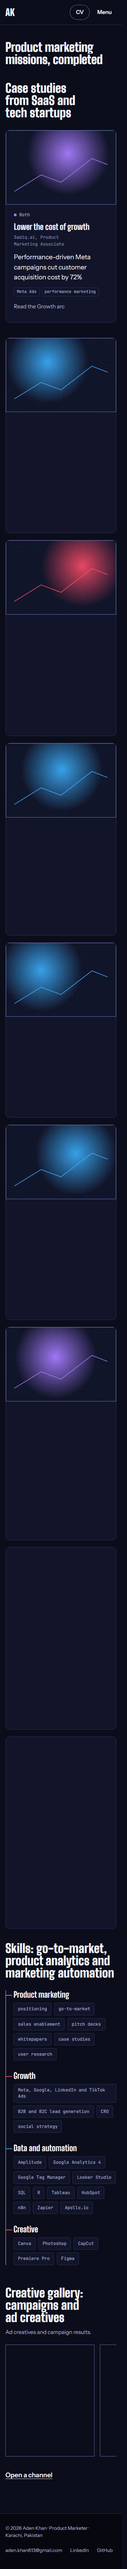
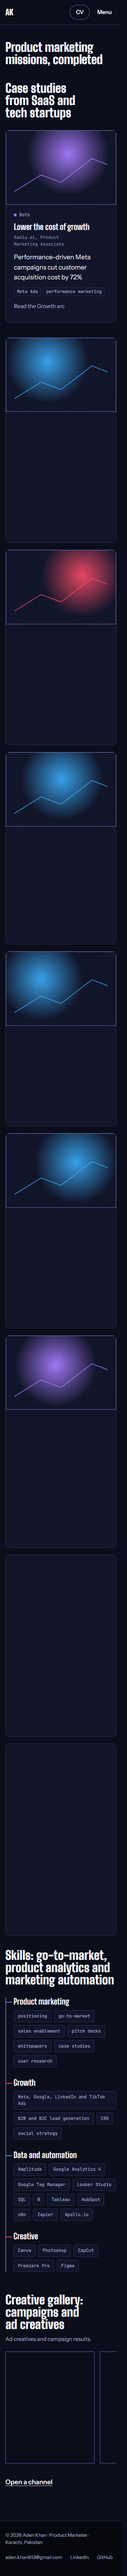
p16: design audit
Merged impeccable, improve-ui, web-design-guidelines, break-ui and
mobile-native findings into docs/audits/ui.md and fixed them by severity.
Home passes the recruiter test on a phone: name, role, CTA and the -72%
CAC proof sit in the first 640 px screen. Adds an axe WCAG 2.2 AA spec.

diff --git a/src/styles/global.css b/src/styles/global.css
@@ -44,6 +44,8 @@
   --font-mono: "JetBrains Mono Variable", ui-monospace, monospace;
   --text-display-xl: 6rem;
   --text-display-xl--line-height: 0.92;
+  --text-display-page: 4.5rem;
+  --text-display-page--line-height: 1;
   --text-display-lg: 3.25rem;
   --text-display-lg--line-height: 1;
   --text-title: 1.875rem;
@@ -154,6 +156,8 @@
     scrollbar-gutter: stable;
     background-color: var(--color-bg-base);
     -webkit-text-size-adjust: 100%;
+    /* Native-feeling taps: no grey flash (every control has its own :active state). */
+    -webkit-tap-highlight-color: transparent;
     scrollbar-color: var(--color-line-strong) var(--color-bg-void);
   }
 
@@ -182,6 +186,20 @@
 
   a {
     text-underline-offset: 0.2em;
+  }
+
+  /* No double-tap-zoom delay on controls; button labels are not selectable on long-press. */
+  a,
+  button,
+  summary {
+    touch-action: manipulation;
+  }
+
+  button,
+  summary,
+  .btn {
+    user-select: none;
+    -webkit-user-select: none;
   }
 
   /* Links inside running text are underlined, so they never rely on colour alone (WCAG 1.4.1). */
@@ -291,16 +309,17 @@
 }
 
 @layer components {
+  /* Side padding clears the notch in landscape (viewport-fit=cover). */
   .container-site {
     width: 100%;
     max-width: 1200px;
     margin-inline: auto;
-    padding-inline: 1rem;
+    padding-inline: max(1rem, env(safe-area-inset-left, 0px)) max(1rem, env(safe-area-inset-right, 0px));
   }
 
   @media (width >= 48rem) {
     .container-site {
-      padding-inline: 1.5rem;
+      padding-inline: max(1.5rem, env(safe-area-inset-left, 0px)) max(1.5rem, env(safe-area-inset-right, 0px));
     }
   }
 
@@ -310,8 +329,10 @@
     }
   }
 
+  /* DESIGN.md: 65ch body measure. `ch` is a zero's width, wider than an average Instrument Sans
+     character, so 65ch rendered ~90 characters; 34em keeps lines near 70. */
   .measure {
-    max-width: 65ch;
+    max-width: 34em;
   }
 
   /* Visible second line inside an H1 (docs/SEO.md §3). */

diff --git a/src/data/timeline.ts b/src/data/timeline.ts
@@ -2,7 +2,7 @@ import type { AboutCopy, ContactCopy, WorkCopy } from "./types";
 
 export const about: AboutCopy = {
   h1: "The origin arc: from campaigns to products",
-  bio: "I'm a BBA Marketing student at IBA Karachi who fell for the product side of marketing. I started with social campaigns and memes that converted, then moved into analytics, automation and go-to-market work for tech startups. Today I care about one question: why do people adopt a product, and how do we help more of them get there?",
+  bio: "I’m a BBA Marketing student at IBA Karachi who fell for the product side of marketing. I started with social campaigns and memes that converted, then moved into analytics, automation and go-to-market work for tech startups. Today I care about one question: why do people adopt a product, and how do we help more of them get there?",
   arcsHeading: "From storytelling to product analytics",
   arcs: [
     {
@@ -89,6 +89,7 @@ export const contact: ContactCopy = {
       message: "Write a message.",
     },
     summary: "Check {count}: {fields}.",
+    sending: "Sending…",
   },
   copy: { button: "Copy email", done: "Email copied", failed: "Could not copy. The address is" },
   thanks: { status: "// message sent", line: "Thanks for getting in touch. I will reply by email." },

diff --git a/tests/e2e/a11y.spec.ts b/tests/e2e/a11y.spec.ts
@@ -1,0 +1,24 @@
+import AxeBuilder from "@axe-core/playwright";
+import { expect, test } from "@playwright/test";
+
+test.beforeEach(async ({ page }) => {
+  await page.addInitScript(() => {
+    try {
+      sessionStorage.setItem("ak.intro", "1");
+    } catch {}
+  });
+});
+
+for (const route of ["/", "/about/", "/work/", "/contact/", "/thanks/"]) {
+  test(`${route} has no axe violations (WCAG 2.2 A/AA)`, async ({ page }) => {
+    await page.goto(route);
+    await page.waitForTimeout(1500); // let reveals settle so axe sees the resting state
+    const results = await new AxeBuilder({ page })
+      .withTags(["wcag2a", "wcag2aa", "wcag21a", "wcag21aa", "wcag22aa"])
+      .analyze();
+    const summary = results.violations.map(
+      (v) => `${v.id} (${v.impact}): ${v.nodes.length} × ${v.nodes[0]?.target}`,
+    );
+    expect(summary).toEqual([]);
+  });
+}

diff --git a/tests/e2e/home-motion.spec.ts b/tests/e2e/home-motion.spec.ts
@@ -31,7 +31,8 @@ test("hero entrance ends fully visible and the stat bars fill", async ({ page })
 });
 
 test("stats count up once when scrolled into view and end on the real values", async ({ page }) => {
-  await page.setViewportSize({ width: 1440, height: 700 });
+  // Since p16 the stats sit in the hero, so a short viewport keeps them below the fold.
+  await page.setViewportSize({ width: 1440, height: 480 });
   await page.goto("/");
   await expect(page.locator("html")).not.toHaveClass(/motion-pending/, { timeout: 2000 });
   // Screen readers always get the real numbers.

diff --git a/src/lib/motion/moments/home.ts b/src/lib/motion/moments/home.ts
@@ -52,7 +52,7 @@ function countUps(ctx: MomentContext): (() => void) | void {
   const restore = () => counters.forEach((el) => (el.textContent = format(el, Number(el.dataset.count))));
   for (const el of counters) el.textContent = format(el, 0);
   ScrollTrigger.create({
-    trigger: counters[0].closest("section") ?? counters[0],
+    trigger: counters[0].closest(".stats") ?? counters[0],
     start: "top 90%",
     once: true,
     onEnter: () => {

diff --git a/src/data/seo.ts b/src/data/seo.ts
@@ -52,7 +52,7 @@ export const seo: Record<PageId, PageSeo> = {
     id: "404",
     path: "/404/",
     title: "Page not found | Aden Khan",
-    description: "This page does not exist. Go to Aden Khan's product marketing work or contact page.",
+    description: "This page does not exist. Go to Aden Khan’s product marketing work or contact page.",
     h1: "Page not found",
     ogImageAlt: "Aden Khan, Product Marketer",
     noindex: true,

diff --git a/src/data/types.ts b/src/data/types.ts
@@ -120,6 +120,7 @@ export interface ContactCopy {
     errors: { name: string; email: string; emailFormat: string; message: string };
     /** Announced on a failed submit; {count} and {fields} are filled in. */
     summary: string;
+    sending: string;
   };
   copy: { button: string; done: string; failed: string };
   thanks: { status: string; line: string };

diff --git a/src/data/missions.ts b/src/data/missions.ts
@@ -88,7 +88,7 @@ export const missions: Mission[] = [
   {
     id: "grow-a-programs-reach",
     order: 8,
-    title: "Grow a program's reach",
+    title: "Grow a program’s reach",
     org: "Invest2Innovate",
     role: "Marketing Associate",
     result: "+40% awareness for i2iScale across 3 concurrent initiatives",

diff --git a/docs/audits/ui.md b/docs/audits/ui.md
@@ -1,0 +1,69 @@
+# UI Audit (p16)
+
+Surfaces: `/`, `/about/`, `/work/`, `/contact/` (+ `/thanks/`), at 375×667 (phone), 375×812, 1440×900, and 200% zoom. Reviewed read-only first, then fixed highest severity first. Status below reflects the fixes and the confirming impeccable rerun.
+
+**Recruiter test (owner's bar):** a hiring manager on a phone should understand who Aden is, what he does and one proof point within 10 seconds on Home.
+
+## Sources and method
+
+| Skill | What it ran |
+|---|---|
+| impeccable | `impeccable detect` on `src/` (regex rules) and on the four running pages (element rules incl. AI-slop palette, halos, line length, occlusion); critique against DESIGN.md and `docs/01-brief.md` |
+| improve-ui | Audit against DESIGN.md as the governing system (contract → runtime → correction proof for each finding) |
+| web-design-guidelines | Latest Web Interface Guidelines (vercel-labs `command.md`), checked against the components; axe-core WCAG 2.2 A/AA scan of all routes |
+| break-ui | Worst-case fixture (`npm run dev:worst`, p14) for long names, missing images, empty lists; plus 200% zoom on all pages |
+| mobile-native | Platform layer: tap highlight, touch-action, user-select, input zoom, viewport units, safe areas, overscroll, hover gating |
+
+## Design language (improve-ui)
+- Audited surface: the four public pages and shared layout (nav, footer, CV dialog).
+- Design sources: `DESIGN.md` (current, governs all pages), `docs/MOTION.md`, `docs/01-brief.md`.
+- Documented decisions: dark-only palette with lane meaning (red creative, blue data, purple both); type ramp display-xl/lg, title, body-lg, body, caption, mono-label; 65ch body measure; the only multi-colour gradient allowed is the CV button; glow only on orb, CV burst, focus ring and card pointer light.
+- Governing owners and consumers: `src/styles/global.css` `@theme` tokens → every component.
+- Explicit exceptions: None documented.
+
+## Findings (merged, highest severity first)
+
+| # | Severity | Page | Issue | Fix | Raised by | Status |
+|---|---|---|---|---|---|---|
+| 1 | Critical | Home (phone) | Recruiter test fails: at 375×667 the proof point (stats strip, −72% CAC) starts at 1,257 px, almost two screens down, below the avatar card. Name, role and CTA are visible; proof is not. | Move the stats strip into the hero and order it before the avatar card on phones (copy → proof → card); keep copy · card / stats on desktop. | Recruiter test, impeccable critique | **fixed**: StatsStrip moved into Hero.astro (grid areas copy / proof / visual on phones); first stat −72% at 546–582 px and its label ending at 628 px on 360×640 and 375×667 |
+| 2 | High | All | axe `label-content-name-mismatch` (WCAG 2.5.3): logo link shows "AK" but its accessible name is "Aden Khan, home". Voice-control users saying "click AK" miss it. | Accessible name that starts with the visible text: `aria-label="AK, Aden Khan, home"`. | web-design-guidelines (axe) | **fixed**: Nav.astro; axe clean on all 5 routes |
+| 3 | High | Home | Stat bars use the creative→growth→data gradient, which DESIGN.md reserves for the CV button; impeccable flags it as the purple-gradient AI tell. | Solid lane colour per bar (Positioning both/purple, Analytics data/blue, Automation data/blue, Paid growth creative/red). | improve-ui (DESIGN.md contract), impeccable `ai-color-palette` | **fixed**: CharacterCard.astro, `data-lane` per bar with `--lane-colour` |
+| 4 | Medium | About, Contact, Home | Body measure exceeds DESIGN.md's 65ch: About's bio renders ~93 characters per line (`.measure` uses `ch`, which is wider than an average character in Instrument Sans). | `.measure { max-width: 34em }` (≈ 70 characters at body and body-lg sizes). | improve-ui (DESIGN.md contract), impeccable `line-length` | **fixed**: global.css `.measure`; About bio now ~68 characters per line |
+| 5 | Medium | All (touch) | Grey tap flash on links and buttons; no `touch-action: manipulation`; long-press selects button labels. | `-webkit-tap-highlight-color: transparent` on `html`; `touch-action: manipulation` on links and buttons; `user-select: none` on buttons and button-styled links (content links keep selection). | mobile-native, web-design-guidelines | **fixed**: global.css. Needs a real phone to confirm the tap flash is gone (emulation can't show it) |
+| 6 | Medium | Work | Nine identical cards in a uniform grid: the strongest proof (mission 1, −72% CAC) has the same weight as the rest. | Feature mission 1: at ≥ 1024 px it spans two columns with image and text side by side. | impeccable critique (same-size cards) | **fixed**: MissionCard `featured` prop, set on index 0 in MissionGrid.astro |
+| 7 | Medium | All | Type sizes off the DESIGN.md ramp: logo 1.75rem, tags 0.75rem, page titles 4.5rem. | Logo → `--text-title`; tags → `--text-mono-label`; add `display-page` (4.5rem) to DESIGN.md and use the token for page titles. | impeccable (design-system advisories), improve-ui | **fixed**: tokens applied; `display-page` added to global.css and DESIGN.md |
+| 8 | Low | Contact | Email input allows spellcheck and autocapitalisation; the submit button gives no feedback while the post is in flight and can be pressed twice. | `spellcheck="false" autocapitalize="none"` on email; on a valid submit, disable the button and show "Sending…". | web-design-guidelines (forms) | **fixed**: ContactForm.astro; `copy.sending` in timeline.ts |
+| 9 | Low | About, 404 | Straight apostrophes in copy ("I'm", "program's", "Aden Khan's"). | Curly apostrophes in `src/data` (text only; meaning unchanged). | web-design-guidelines (typography) | **fixed**: timeline.ts, missions.ts, seo.ts |
+| 10 | Low | All (notched phones) | Safe-area insets are always 0 (`viewport-fit` missing), so the toast and intro Skip button don't clear the home indicator in landscape; the keyboard doesn't resize the layout on Android. | `viewport-fit=cover, interactive-widget=resizes-content`; side padding `max(gutter, env(safe-area-inset-left/right))` in `.container-site`. | mobile-native | **fixed**: BaseLayout.astro viewport, global.css `.container-site`. Notch insets need a real device to confirm |
+| 11 | Info | Home | impeccable flags the teaser orbs and intro as `radial-halo` / purple glow. | None: the red + blue → purple collision is the brand concept in the brief and DESIGN.md, limited to these places. | impeccable | **deferred**: brand concept. Rerun confirms the remaining flags are the teaser orbs (Teaser.astro) and the card pointer light (CharacterCard.astro), both allowed by DESIGN.md "Elevation & Depth" |
+| 12 | Info | About, Work | impeccable `text-occlusion` on the "fps · triggers" overlay. | None: dev-only overlay, absent from production builds (tested in p10). | impeccable | **deferred**: dev only, not in the production build |
+| 13 | Info | All | Guidelines suggest Title Case headings and second-person copy. | None: DESIGN.md sets sentence case and the brief sets first person. | web-design-guidelines | **deferred** (rejected): conflicts with DESIGN.md and the brief, which govern |
+| 14 | Info | All | Brand names (Sadiq.ai, HubSpot, n8n…) lack `translate="no"`. | Defer: low value for an English-only site. | web-design-guidelines | **deferred**: low value on an English-only site; revisit if a translated version is added |
+| 15 | Info | About, Work | break-ui worst case: long titles, roles, emails, empty lists and missing images all hold (fixed in p14). Checked again at 200% zoom. | None. | break-ui | **held**: rechecked at 200% zoom on all four pages, no horizontal overflow and no clipped text |
+
+## Results after the fixes
+
+**Recruiter test, Home on a phone, passes.** Measured with mobile emulation (no desktop scrollbar) at 360×640 and 375×667. The whole chain sits inside the first screen with no scrolling:
+
+| Element | Top (px) | What the reader gets |
+|---|---|---|
+| H1 | 89 | Who: “Aden Khan, Product Marketer” |
+| Subhead | 260 | What: “I connect what customers feel with what the data shows, then build the systems that scale it.” |
+| Availability line | 360 | BBA Marketing at IBA Karachi; open to internships now |
+| CTAs (one row, down to 360 px) | 461 | Download CV · See my missions |
+| Proof: −72% | 546 (number ends 582) | Label “customer acquisition cost” ends at 628, inside a 640 px screen |
+
+Before the fix, the proof started at 1,257 px. Desktop (1440×900 and 1024×768): the stats sit in the left column under the CTAs; the numbers end at 749 px, so they are in the first screen at both sizes. The labels end at 795, inside 900 but just below a 768 px fold. Screens: `docs/screens/home-375-first-screen.png`, `docs/screens/home-1440-first-screen.png`.
+
+Regressions found and fixed while verifying: the count-up trigger still looked for a `section` wrapper, which no longer existed after the move, so on desktop it fired before the stats were on screen. It now triggers on `.stats`. Content-sized stat columns made the card shift while counting (CLS 0.029); fixed by reserving each value's final width (`dd::after`) and top-aligning the card.
+
+**impeccable rerun (detect, live pages):**
+- Home: two `ai-color-palette` flags and one `radial-halo`. Traced to the teaser orbs and the card pointer light, both allowed by DESIGN.md (row 11). The stat-bar gradient flag (row 3) is gone.
+- About, Work: only the dev-overlay `text-occlusion` (row 12).
+- `line-length` flags: gone.
+
+**impeccable rerun (detect, `src/`):** the only advisories left are dev-only (DataToggle colours, 0.75rem placeholder badges in Img and CharacterCard) and the `#000` mask colour in ArcPanel, which is a mask channel, not a visible colour.
+
+**axe-core, WCAG 2.2 A/AA (`tests/e2e/a11y.spec.ts`):** 0 violations on `/`, `/about/`, `/work/`, `/contact/`, `/thanks/`.
+
+**Needs a real phone:** the tap flash (row 5) and the safe-area insets (row 10) can't be reproduced in emulation.

diff --git a/DESIGN.md b/DESIGN.md
@@ -43,6 +43,12 @@ typography:
     lineHeight: 1
     fontWeight: 900
     letterSpacing: 0em
+  display-page:
+    fontFamily: Big Shoulders Display Variable
+    fontSize: 4.5rem
+    lineHeight: 1
+    fontWeight: 900
+    letterSpacing: -0.01em
   title:
     fontFamily: Big Shoulders Display Variable
     fontSize: 1.875rem
@@ -213,6 +219,7 @@ Fonts are free and self-hosted with Fontsource (variable builds, `npm i @fontsou
 
 Scale (rem, desktop; mobile steps down as listed):
 - `display-xl` 6rem on desktop, 3.5rem at 360px. Line height 0.92. Used for the H1 only.
+- `display-page` 4.5rem from `lg` up; below `lg` it uses `display-lg`. The H1 on About, Work, Contact and Thanks (added in p16).
 - `display-lg` 3.25rem, 2.25rem on mobile. H2.
 - `title` 1.875rem, 1.5rem on mobile. Card titles.
 - `body-lg` 1.1875rem. Hero subhead.
@@ -221,7 +228,7 @@ Scale (rem, desktop; mobile steps down as listed):
 - `mono-label` 0.8125rem.
 
 Rules:
-- Max line length for body text: 65ch. Hero subhead 36ch.
+- Max line length for body text: about 65–70 characters, set as `.measure { max-width: 34em }` (a `ch` is wider than an average Instrument Sans character, so 65ch rendered ~93 characters). Hero subhead 36ch.
 - Tracking never goes below -0.02em. Headings use `text-wrap: balance`.
 - Use sentence case for headings. All caps is allowed only for the single HUD tag in the character-select card.
 - Numerals in stats and dates use tabular figures.
@@ -237,7 +244,7 @@ Container: 1200px max, with 16px side padding at 360px, 24px at `md`, 40px at `l
 
 | Page | 360–479px | 480–767px | 768–1023px | 1024–1439px | 1440px |
 |---|---|---|---|---|---|
-| Home | one column: H1, subhead, buttons, avatar card, stats 2×2 | same, avatar card max 420px | hero two columns (text left, avatar right), stats 4 across | same, larger display type | container capped at 1200px, extra space is empty navy |
+| Home | one column: H1, subhead, buttons, stats 2×2, then the avatar card (proof sits in the first screen, p16) | same, avatar card max 420px | hero two columns (text left, avatar right), stats 4 across below both; from `lg` the stats sit in the left column under the CTAs, card top-aligned beside them | same, larger display type | container capped at 1200px, extra space is empty navy |
 | About | bio, then the four panels stacked | same | panels 2×2 | same | same |
 | Work | mission cards one column, skills tree stacked by lane | one column | two columns | three columns | three columns |
 | Contact | terminal panel full width | same | terminal panel max 720px, left aligned | same | same |
@@ -288,6 +295,7 @@ States use the same rules everywhere. Focus-visible: 2px `focus` outline with 3p
 | button-ghost | text only, `text-muted`, underline on hover | `text` | ring | `text-muted` | 45% opacity |
 | mission-card | `bg-surface`, 1px `line`, 12px radius. Lane shown as a filled dot plus the word Creative, Data or Both. Result sentence in `body-lg`. No coloured side stripe | border `line-strong`, title shifts to the lane colour | ring around the card if it is a link | `bg-raised` | n/a |
 | stat-card | number in `display-lg` coloured by lane, caption below in `text-muted`, cut top-right corner | none (static) | n/a | n/a | n/a |
+| stat-bar (character card) | solid fill in the stat's lane colour (`growth` for both, `data`, `creative`); never a gradient | none | n/a | n/a | n/a |
 | skill-node | `bg-surface`, `mono-label`, 4px radius; lights to the lane colour as it enters view | border lane colour | ring | n/a | n/a |
 | manga-panel | `bg-surface`, 1px `line-strong`, cut bottom-right, halftone corner, top edge in its lane colour | none | n/a | n/a | n/a |
 | terminal-panel | `bg-void`, `mono-label`, 1px `line-strong`, corner brackets in `creative` (top-left) and `data` (bottom-right) | row text to `text` | each link has its own ring | row `bg-surface` | n/a |
@@ -350,6 +358,8 @@ Not applied to code yet. When it is, it goes in `src/styles/global.css` after `@
   --text-display-xl--line-height: 0.92;
   --text-display-lg: 3.25rem;
   --text-display-lg--line-height: 1;
+  --text-display-page: 4.5rem;
+  --text-display-page--line-height: 1;
   --text-title: 1.875rem;
   --text-title--line-height: 1.05;
   --text-body-lg: 1.1875rem;

diff --git a/docs/DECISIONS.md b/docs/DECISIONS.md
@@ -293,3 +293,14 @@ Scores (1 to 5, higher is better; performance is "cheap to run"):
 - Decision: Form validation keeps the browser's native validation without JavaScript and replaces it with inline, linked, announced errors when JavaScript runs (`form.noValidate` set by script). A valid form submits natively so Netlify's handling and the `/thanks/` redirect are unchanged.
 - Decision: The `/thanks/` page reuses the terminal look with the growth purple as the success colour and repeats the email address as the fallback. Its line makes no claim about reply time (none in `docs/cv-source.md`).
 - Source: p15, `docs/MOTION.md` §12.
+
+## 2026-11-02 — p16 design audit
+- Decision: On phones, the stats strip moves into the hero, between the copy and the avatar card, so a hiring manager sees name, role, CTA and the −72% CAC proof in the first 667 px screen. From 1024 px the stats sit in the left column under the CTAs, with the card top-aligned beside them, so they are above the fold on 1440×900 and 1024×768. Hero CTAs use 1.125rem side padding under 480 px to stay on one row at 360 px. StatsStrip is now a labelled group inside the hero, not its own section.
+- Decision: Stat bars use solid lane colours. The creative→growth→data gradient stays reserved for the CV button, as DESIGN.md says.
+- Decision: New type token `display-page` (4.5rem from `lg`) for the H1 on inner pages; it was already in use as a raw value. The logo uses `title` and tags use `mono-label`.
+- Decision: Body measure is `34em`, not `65ch`: in Instrument Sans `65ch` rendered about 93 characters per line.
+- Decision: Mission 1 is the featured Work card (two columns from `lg`), because it carries the strongest proof.
+- Decision: Mobile platform baseline: no tap highlight, `touch-action: manipulation` on controls, `user-select: none` on buttons only, `viewport-fit=cover` with safe-area side padding, `interactive-widget=resizes-content`.
+- Decision: Rejected guideline suggestions: Title Case headings and second-person copy (DESIGN.md and the brief govern); `translate="no"` deferred.
+- Decision: The teaser orbs and the card pointer light stay, though impeccable flags them as purple halos; they are the brand concept and DESIGN.md allows glow in those places.
+- Source: p16, `docs/audits/ui.md`.
